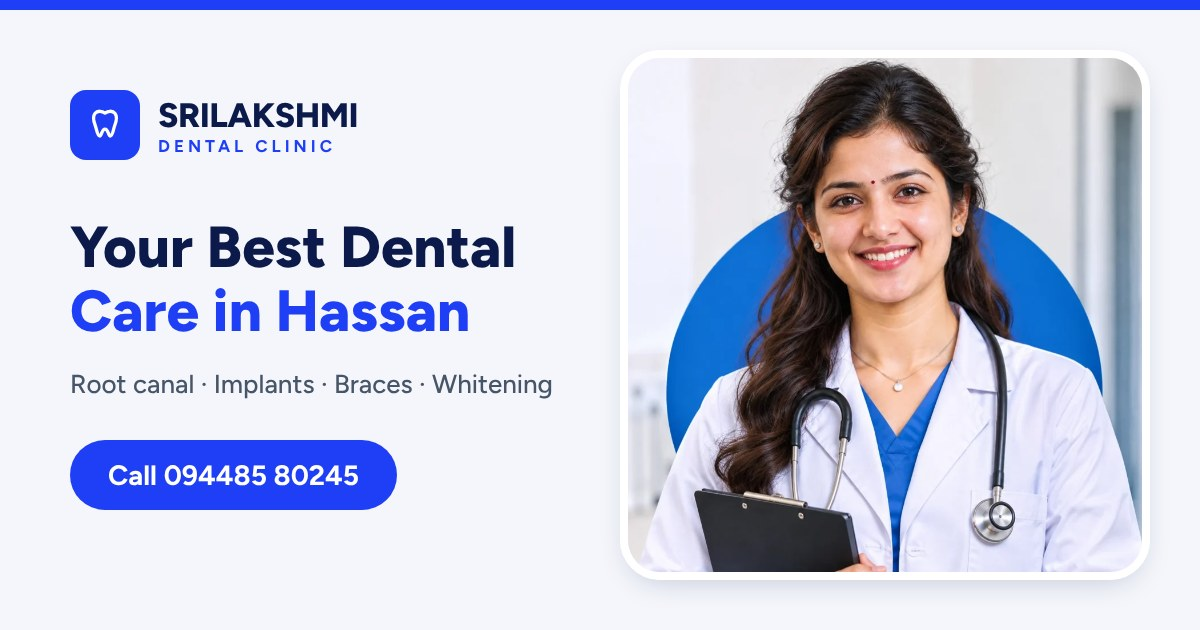
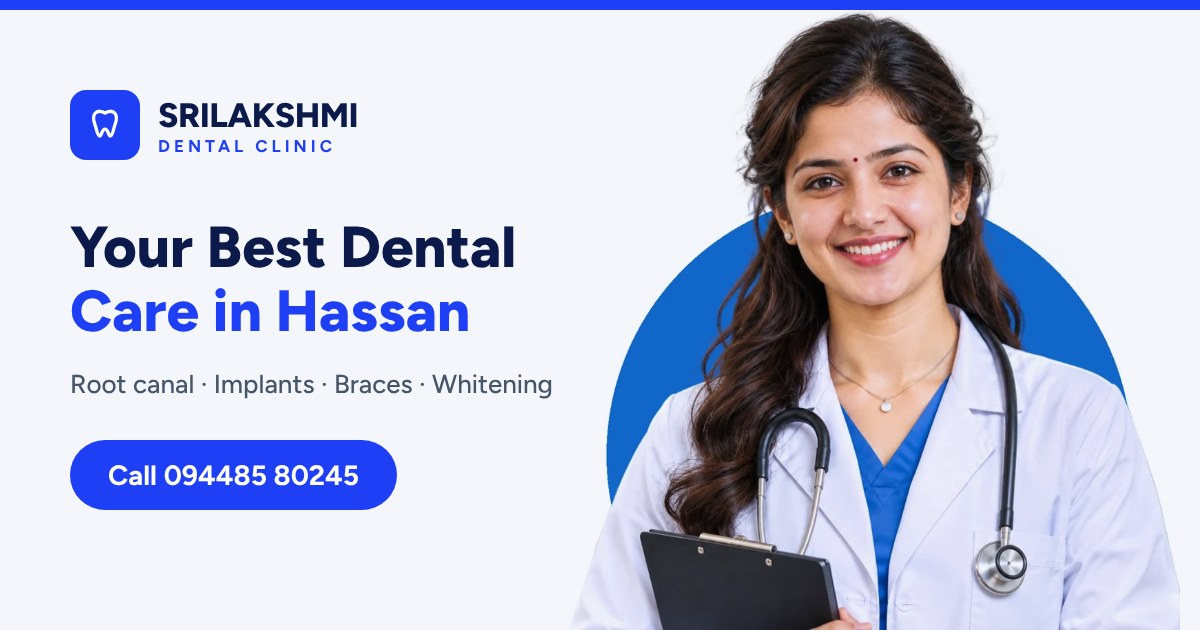
Restore previous hero layout with the new person cut out on white
Claude-Session: https://claude.ai/code/session_01QaGxT8Mz6PSp9cdSWs8MVu

Changed region(s): [[0.4625, 0.0, 0.9867, 1.0]]

diff --git a/src/components/Hero.jsx b/src/components/Hero.jsx
@@ -27,14 +27,15 @@ export default function Hero() {
         <motion.div className="relative mx-auto w-full max-w-md lg:max-w-none" initial={{ opacity: 0, scale: 0.95 }} animate={{ opacity: 1, scale: 1 }} transition={{ duration: 0.8, delay: 0.15 }}>
           <Sparkle className="absolute left-2 top-6 z-10 h-8 w-8 text-primary" />
           <Sparkle className="absolute right-4 top-12 z-10 h-5 w-5 text-primary/60" />
-          <div className="relative mx-auto w-[88%] overflow-hidden rounded-[2.5rem] shadow-card ring-8 ring-white">
+          <div className="relative isolate mx-auto w-[92%] bg-soft">
             <img
               src="/images/hero.webp"
               alt={text.hero.imageAlt}
               width="900"
               height="900"
               fetchpriority="high"
-              className="aspect-square w-full object-cover"
+              className="w-full mix-blend-multiply"
+              style={{ WebkitMaskImage: 'linear-gradient(to right, transparent, #000 6%, #000 94%, transparent), linear-gradient(to bottom, transparent, #000 6%)', WebkitMaskComposite: 'source-in', maskImage: 'linear-gradient(to right, transparent, #000 6%, #000 94%, transparent), linear-gradient(to bottom, transparent, #000 6%)', maskComposite: 'intersect' }}
             />
           </div>
           <motion.div className="absolute -left-2 bottom-16 z-10 flex items-center gap-3 rounded-2xl bg-white p-3 pr-5 shadow-card sm:left-0" animate={{ y: [0, -8, 0] }} transition={{ duration: 4, repeat: Infinity }}>

diff --git a/TEMPLATE.md b/TEMPLATE.md
@@ -37,7 +37,7 @@ Put the clinic's photos in `public/images/` using **exactly these names** (`.web
 
 | File | Where it appears | Good size / shape |
 |---|---|---|
-| `hero.webp` | Top of the page (rounded photo card) | Square, ~900 × 900 px, any background |
+| `hero.webp` | Top of the page | Portrait on a white background, ~900 px wide |
 | `about-1.webp` | About, big tooth | Portrait on a white background |
 | `about-2.webp` | About, small tooth | Close-up smile |
 | `doctor.webp` | Meet Your Dentist | Portrait, 4:5 |
